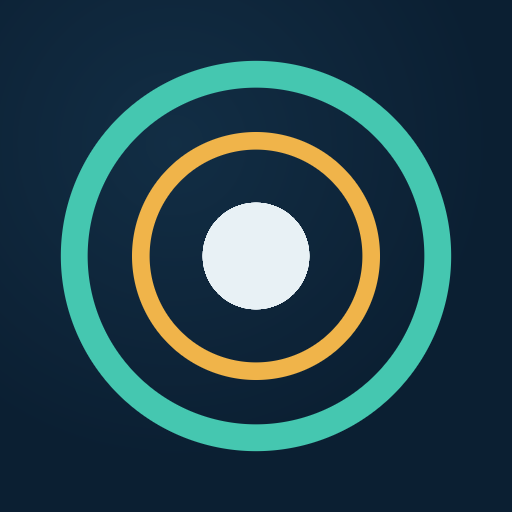
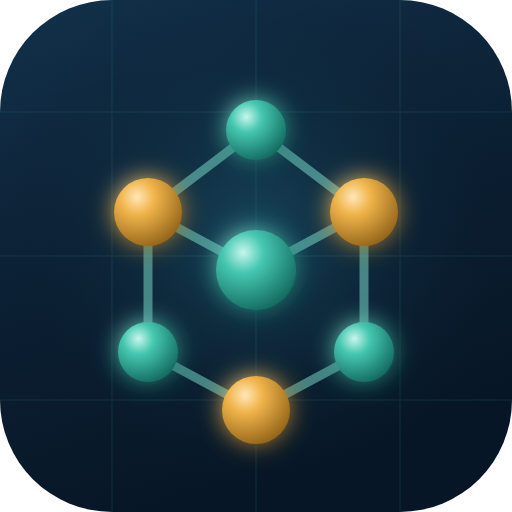
O icone da aula e o contato do professor na capa
ICONE. Sai o atomo de aneis concentricos, entra o RETICULO: sete
ions acesos numa malha, com as cargas ALTERNANDO de verdade - todo
vizinho de um verde-agua sendo ambar, como num cristal ionico. E
a imagem que a aula mais mostra e a que a turma reconhece de
longe; e poucos nos o bastante para sobreviver a 192px e ao
recorte redondo que o sistema faz na instalacao.

Mesmo fundo de tinta funda e mesma dupla verde-agua e ambar do
resto do material. Desenhado em SVG e rasterizado pelo Chrome sem
interface, que e o que ha nesta maquina - o convert do PATH e o do
NTFS, nao o do ImageMagick.

CAPA. O contato do professor entra sob o nome, ao lado do retrato.
Em monoespaçada e pequeno: endereco se le caractere por caractere,
e e a monoespacada que nao deixa o l virar 1. Discreto, porque a
capa e da aula e nao do autor - mas clicavel, para quem abrir num
aparelho poder escrever sem copiar a mao.

Cache do service worker a v29: o icone mudou, e sem trocar a chave
quem ja instalou continuaria com o antigo.

diff --git a/index.html b/index.html
@@ -2752,6 +2752,20 @@ body.sim-movel .ex-el .sim.pegando{
   margin:0;
 }
 .cover .prof span{color:var(--paper-dim);font-weight:300}
+/* O CONTATO, sob o nome.
+   Em monoespaçada e pequeno: é endereço, não fala — quem lê um
+   endereço lê caractere por caractere, e a monoespaçada é a fonte que
+   não deixa o l virar 1 nem o zero virar o. Fica discreto porque a capa
+   é da aula, e não do autor; mas é clicável, para quem abrir isto num
+   aparelho poder escrever sem copiar à mão. */
+.cover .mail{
+  display:inline-block;margin-top:5px;
+  font-family:var(--mono);font-size:13px;letter-spacing:.04em;
+  color:rgba(232,241,245,.5);text-decoration:none;
+  border-bottom:1px solid rgba(69,199,176,.28);padding-bottom:1px;
+  transition:color .2s,border-color .2s;
+}
+.cover .mail:hover{color:var(--aqua);border-bottom-color:var(--aqua)}
 /* O AUTOR, NA CAPA.
    O retrato entra ao lado do nome, do tamanho de um crédito e não de um
    cartaz: a capa é da aula, não de quem a dá. E entra puxado para o tema
@@ -6079,7 +6093,11 @@ function render(){
               <img src="imagens/amauri_jr.jpg" draggable="false"
                    alt="Professor Amauri Junior no laboratório">
             </span>
-            <p class="prof"><span>Professor:</span> Amauri Junior</p>
+            <div>
+              <p class="prof"><span>Professor:</span> Amauri Junior</p>
+              <a class="mail" href="mailto:amauri.junior@escola.seduc.pa.gov.br"
+                 >amauri.junior@escola.seduc.pa.gov.br</a>
+            </div>
           </div>
         </div>
         <div class="right">${HERO}</div>`;

diff --git a/sw.js b/sw.js
@@ -1,6 +1,6 @@
 /* Service worker da aula. Guarda tudo na instalação: a aula roda inteira
    sem rede, que é como ela costuma ser dada. */
-const CACHE = 'ligacoes-v28';
+const CACHE = 'ligacoes-v29';
 const ARQUIVOS = [
   './',
   './index.html',
